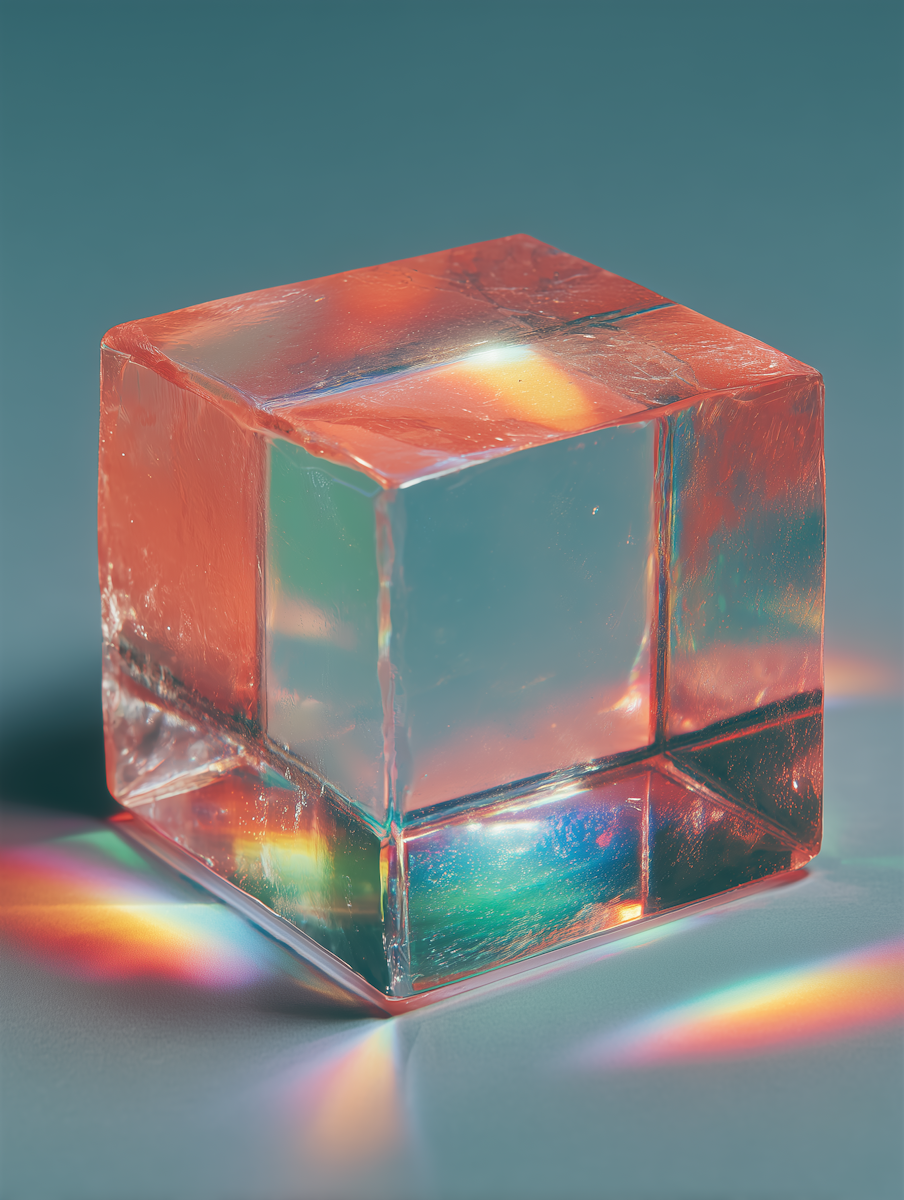
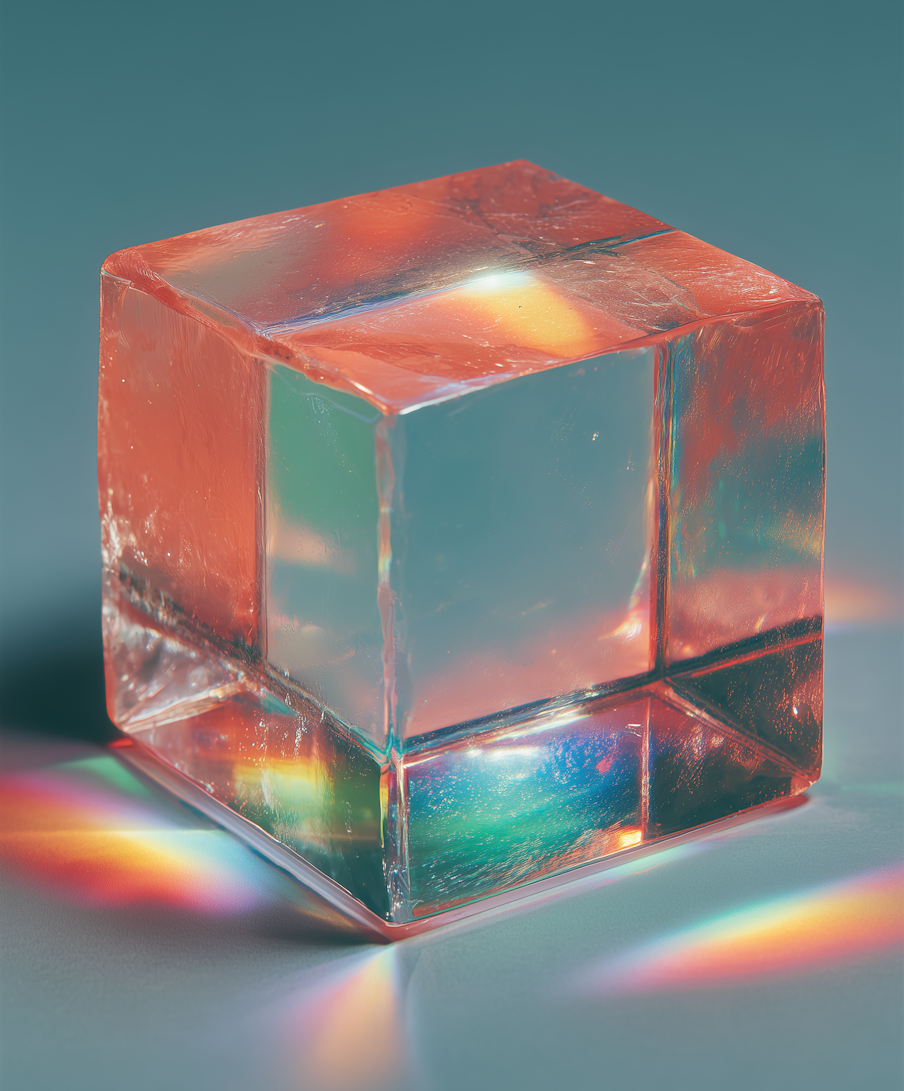
welcome photos

Changed region(s): [[0.0, 0.1247, 1.0, 1.0]]

diff --git a/webster-frontend/app/components/LogoTools.tsx b/webster-frontend/app/components/LogoTools.tsx
@@ -1,5 +1,4 @@
 import { MousePointer2, Hand, Type, Square, Wand2, LayoutTemplate } from "lucide-react";
-// import { PrismatLogo } from "./../assets/Logo" 
 export type PanelCategory = "text" | "icons" | "box" | "templates" | null;
 
 interface LogoToolsPanelProps {
@@ -23,7 +22,7 @@ export function LogoToolsPanel({
     <div className="w-13 bg-[#0f0f14] border-r border-border flex flex-col items-center py-3 gap-1 flex-shrink-0">
 
       {/* Divider */}
-      <div className="w-7 h-px bg-border my-1" />
+      {/* <div className="w-7 h-px bg-border my-1" /> */}
 
       {/* Panel categories */}
       {PANEL_CATEGORIES.map(({ id, Icon, label }) => (

diff --git a/webster-frontend/app/routes/LogoMakerPage.tsx b/webster-frontend/app/routes/LogoMakerPage.tsx
@@ -109,8 +109,7 @@ export default function LogoMakerPage() {
           />
         )}
  
-        {/* Main canvas */}
-        <Canvas />
+        {/* <Canvas /> */}
       </div>
     </div>
   );
